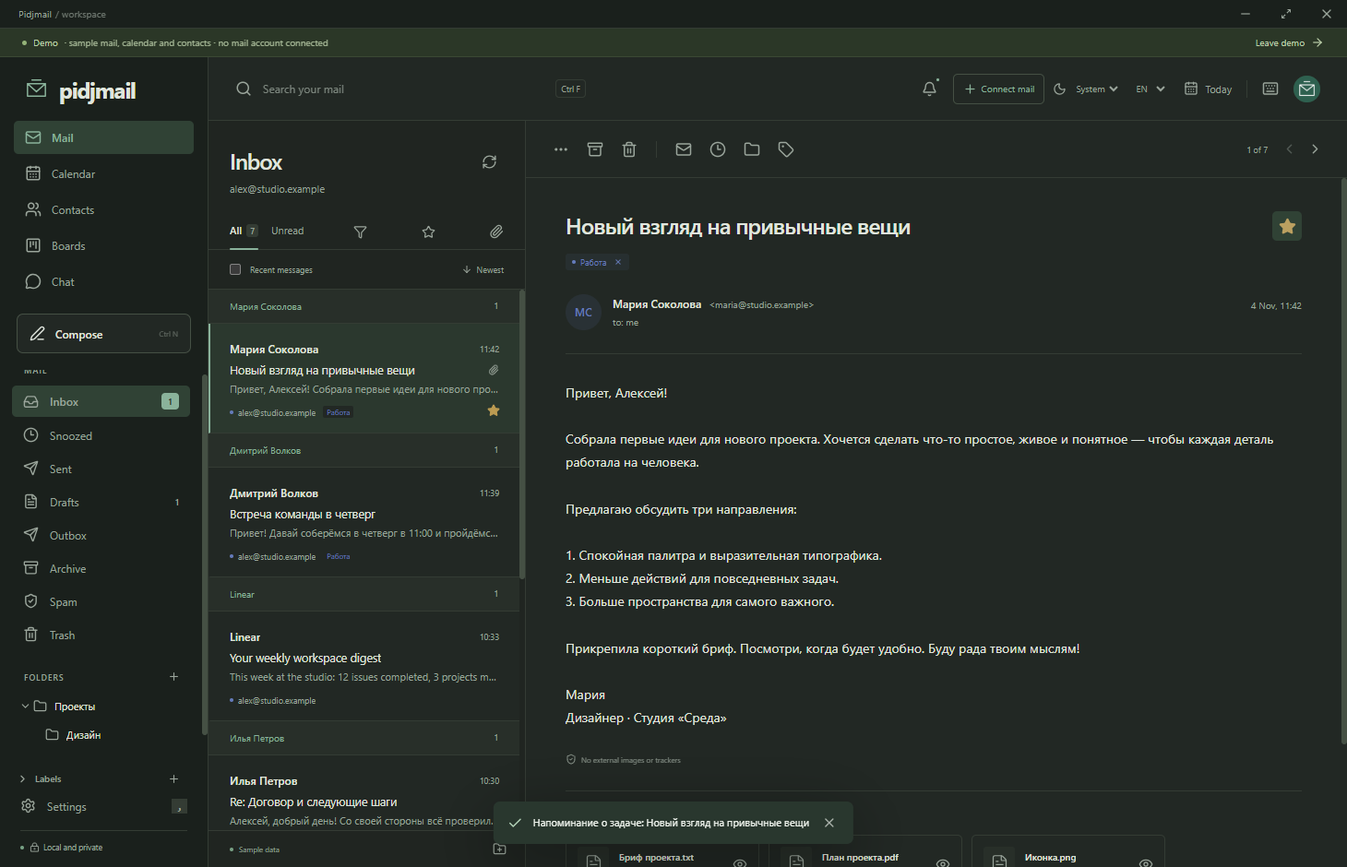
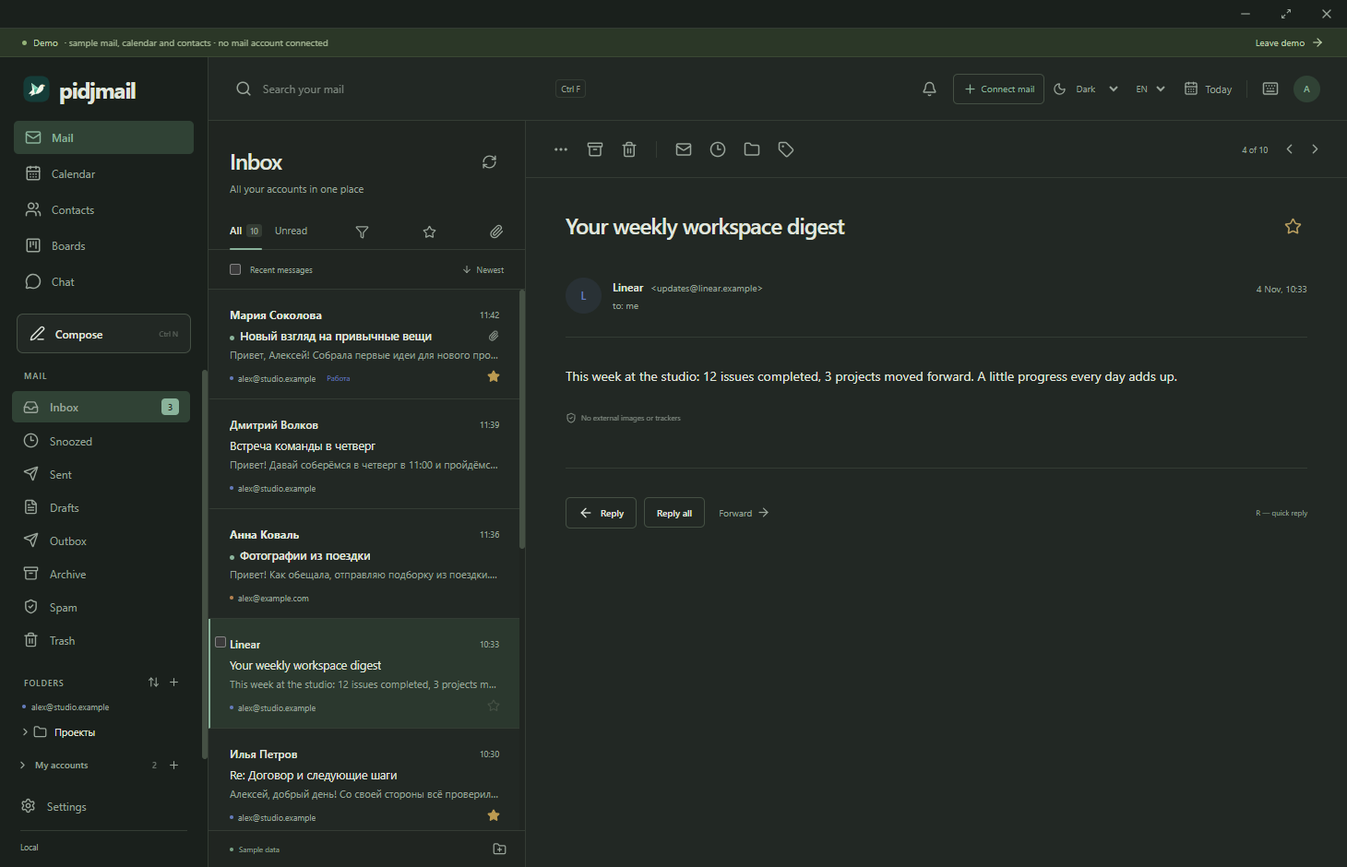
Document Pidjmail 0.2.1 connection, storage, tray and AI panels

diff --git a/PRIVACY.md b/PRIVACY.md
@@ -1,55 +1,35 @@
 # Конфиденциальность / Privacy
 
-**Дата / Date:** 4 November 2026 · **Приложение / Application:** Pidjmail 0.2.0
+4 November 2026 · Pidjmail 0.2.1
 
 ## Русский
 
-### Локальные данные
+Почта соединяется напрямую с выбранным IMAP/SMTP-провайдером по TLS или обязательному STARTTLS. У Pidjmail нет собственного сервера почты, рекламного SDK или сбора аналитики. Чтение писем безопасным текстом не загружает внешние изображения и пиксели.
 
-Pidjmail хранит параметры ящиков и интерфейса, ограниченный кэш писем, черновики и очередь, подписи, аватар, контакты, события, задачи, правила и уведомления в профиле `%APPDATA%\Pidjmail`. Пароли почты и необязательные API-ключи входят в зашифрованный профиль. Шифрование Electron safeStorage использует защиту учётной записи Windows. Резервная копия профиля также зашифрована. Это не заменяет блокировку и защиту самого компьютера.
+После проверки подключения пользователь выбирает папку писем и загрузку вложений для работы без интернета. Кэш до 100 писем на папку и скачанные вложения шифруются Electron safeStorage с защитой учётной записи Windows. Профиль, пароли, API-ключи, черновики, очередь, контакты, события, задачи, подписи, аватар и настройки также зашифрованы. Путь виден в настройках хранения. По умолчанию профиль находится в соседней с установкой папке Pidjmail Data, на том же диске. Выбор другого диска для первого ящика переносит туда профиль. В %APPDATA%/Pidjmail-location.json хранится только указатель пути. При недоступном диске нет переключения на C:. При миграции прежний зашифрованный профиль сохраняется.
 
-### Сетевые соединения
+По умолчанию входящие вложения просматриваются в памяти. «Сохранить как…» записывает файл по выбранному пути. Включённое пользователем автоматическое сохранение записывает обычные, незашифрованные файлы в выбранную папку. Зашифрованный кэш для работы без интернета — отдельная настройка. Исходящие вложения входят в зашифрованную очередь/черновик.
 
-- Почта передаётся напрямую выбранному IMAP/SMTP-провайдеру по TLS или обязательному STARTTLS. У Pidjmail нет собственного сервера для вашей почты.
-- При включённом получении почты приложение периодически соединяется с провайдером и может держать IMAP IDLE-соединение.
-- AI-помощник обращается к OpenAI или Anthropic только после запуска запроса пользователем. Передаются запрос и явно выбранный контекст письма; вложения автоматически не отправляются. Для API действуют условия выбранного сервиса.
-- При запросе подтверждения прочтения отправляется стандартный заголовок с адресом отправителя. Получатель может отказаться отвечать.
-- Внешние ссылки открываются по действию пользователя в браузере. Скачивание выпусков обслуживается GitHub; применяются его правила.
+AI API отправляет промпт и выбранный пользователем контекст только по его команде; вложения автоматически не передаются. Веб-приложение ИИ загружает официальный сайт ChatGPT/Claude в отдельной изолированной сессии без доступа к почте и native API. Вход выполняется на сайте сервиса. Его правила, cookies и сетевые запросы действуют внутри этой страницы. Cookies самого сервиса сохраняются в зашифрованном профиле; хранилище веб-страницы работает в памяти. Удаление веб-подключения очищает эту сессию. Встроенный вход может ограничиваться сервисом, предусмотрен переход в браузер.
 
-Приложение не содержит собственного сбора аналитики, рекламного SDK или облачной синхронизации календаря, контактов и досок. Текстовое чтение писем не загружает внешние изображения и пиксели отслеживания.
+Почта проверяется автоматически, в том числе через IMAP IDLE. Уведомления могут показывать тему письма или название задачи; текст и звук почты, календаря и досок настраиваются отдельно. Сворачивание сохраняет работу в трее, полный выход её прекращает. Подтверждения прочтения зависят от решения получателя. Внешние ссылки открываются по действию пользователя. Выпуски обслуживает GitHub.
 
-### Файлы и уведомления
+Обычное удаление приложения сохраняет профиль и папки писем. Отключение ящика не удаляет серверную почту и локальную папку. Для окончательного удаления закройте приложение и удалите профиль, выбранные папки и собственные резервные копии; сохранённые обычные файлы удаляются отдельно. Не переносите зашифрованный профиль между пользователями Windows.
 
-Просмотр поддерживаемых входящих вложений выполняется в памяти без отдельной записи файла. «Сохранить как…» записывает файл по выбранному пути. Выбранный аватар сохраняется в профиле; исходящие вложения входят в локальный черновик/очередь. Системные уведомления могут показывать тему письма или название задачи; их можно отключить в настройках.
-
-### Хранение и удаление
-
-Обычное удаление программы сохраняет профиль. Для окончательного удаления данных закройте приложение и удалите его профиль и собственные резервные копии. Сохранённые через «Сохранить как…» файлы удаляются отдельно. Письма на сервере провайдера управляются отдельно; действия с письмами и папками могут синхронизироваться с сервером. Не переносите зашифрованный профиль между пользователями Windows.
-
-Не прикладывайте профиль, пароли, ключи или личную переписку к публичным [обращениям](https://github.com/AdamAnomatik/Pidjmail-Releases/issues). Для уязвимостей см. [SECURITY.md](SECURITY.md).
+Не публикуйте пароли, ключи, профили и переписку в [обращениях](https://github.com/AdamAnomatik/Pidjmail-Releases/issues). Уязвимости: [SECURITY.md](SECURITY.md).
 
 ## English
 
-### Local data
+Mail connects directly to the selected provider through TLS or mandatory STARTTLS. Pidjmail has no mail relay, advertising SDK or usage analytics. Text-only mail display does not load remote images or tracking pixels.
 
-Pidjmail stores account and interface settings, a bounded mail cache, drafts and delivery queue, signatures, avatar, contacts, events, tasks, rules and notifications under `%APPDATA%\Pidjmail`. Mail passwords and optional API keys are included in the encrypted profile. Electron safeStorage uses Windows account protection; the backup is encrypted as well. This does not replace protection of the computer itself.
+After verification, choose a mail folder and whether to cache attachments offline. The bounded cache (100 messages per folder), offline attachments and application profile are encrypted using Electron safeStorage and Windows user protection. The profile includes credentials, optional API keys, drafts, queue, contacts, events, tasks, signatures, avatar and settings. Paths are shown in Data storage. The default profile is in Pidjmail Data beside the installation directory, on the same drive. Choosing a different drive for the first mailbox moves the profile too. %APPDATA%/Pidjmail-location.json holds only its path. There is no fallback to C: if a drive is unavailable. Legacy encrypted profiles are preserved during migration.
 
-### Network connections
+Incoming attachments are previewed in memory by default. Save As writes a file to the selected path. User-enabled automatic saving exports ordinary, unencrypted files to the chosen folder. Encrypted offline caching is a separate option. Outgoing attachments are included in encrypted drafts and queue.
 
-- Mail connects directly to the selected IMAP/SMTP provider using TLS or mandatory STARTTLS. Pidjmail does not operate a mail relay for your messages.
-- Automatic retrieval periodically contacts the provider and may keep an IMAP IDLE connection open.
-- The AI assistant contacts OpenAI or Anthropic only after the user starts a request. The prompt and explicitly selected mail context are transmitted; attachments are not sent automatically. The chosen service's terms apply.
-- Requesting a read receipt adds a standard header containing the sender's address. The recipient may decline to respond.
-- External links open in the browser after a user action. GitHub serves release downloads under its own policies.
+AI API requests send a prompt and user-selected context only on command; attachments are not sent automatically. AI web apps load the official ChatGPT/Claude website in an isolated session without mail or native API access. Sign-in happens on the provider page, under its terms, cookies and network requests. First-party session cookies are stored only in the encrypted profile; other web storage is in memory. Removing the web connection clears this session. A service may restrict embedded login; a browser fallback is available.
 
-The application has no built-in usage analytics, advertising SDK or cloud synchronization of calendar, contacts and boards. Text-only email display does not load remote images or tracking pixels.
+Mail updates automatically, including through IMAP IDLE. Notifications may show mail subjects or task titles. Mail, Calendar and Boards have separate text/sound settings. Minimize keeps the app running in the tray; Quit stops it. Read receipts depend on recipients. External links open on user action. GitHub hosts release downloads.
 
-### Files and notifications
+Normal uninstall preserves the profile and mail folders. Disconnecting a mailbox preserves its local folder and server mail. For permanent deletion, quit and remove the profile, chosen folders and backup copies; exported files are separate. Do not transfer encrypted profiles between Windows users.
 
-Supported incoming attachments are previewed in memory without writing a separate file. Save As writes to the selected location. An avatar is stored in the profile; outgoing attachments are part of local drafts and the delivery queue. System notifications may show email subjects or task titles and can be disabled in Settings.
-
-### Retention and deletion
-
-Normal uninstall preserves the profile. To remove local data permanently, close the application and remove the profile and your backup copies. Files explicitly saved through Save As are separate. Mail on the provider's server is managed separately; message and folder actions may synchronize to that server. Encrypted profiles should not be transferred between Windows users.
-
-Do not attach profiles, passwords, API keys or private mail to public [issues](https://github.com/AdamAnomatik/Pidjmail-Releases/issues). Follow [SECURITY.md](SECURITY.md) for vulnerabilities.
+Never publish credentials, profiles or private mail in [issues](https://github.com/AdamAnomatik/Pidjmail-Releases/issues). See [SECURITY.md](SECURITY.md).

diff --git a/README.ru.md b/README.ru.md
@@ -19,14 +19,14 @@
 - Фильтры входящей почты, группировка по отправителю, поиск Ctrl+F, восстановление из корзины.
 - Просмотр текста, изображений и PDF в памяти, отдельное **«Сохранить как…»**.
 - Локальные календарь, контакты и канбан-доски; создание события, задачи и контакта из письма.
-- Настройка звуков, напоминания, аватар и подписи ящиков.
+- Отдельные уведомления почты, календаря и досок; напоминания в трее, аватар и подписи.
 - Русский и английский интерфейс; светлая, тёмная и системная темы.
-- Необязательный помощник OpenAI / Claude через собственные API-ключ и модель, с явным выбором передачи текста.
+- ChatGPT / Claude в правой панели: веб-вход или собственные API-ключ и модель. При ограничении встроенного входа есть переход в браузер.
 - Зашифрованные локальные профили, отдельные рабочий и демонстрационный режимы.
 
 ## Скачать
 
-Последняя версия доступна в разделе **Releases**. Версия 0.2.0 — ранняя рабочая сборка.
+Последняя версия доступна в разделе **Releases**. Версия 0.2.1 — ранняя рабочая сборка.
 
 ➡ **[Скачать последнюю версию Pidjmail](https://github.com/AdamAnomatik/Pidjmail-Releases/releases/latest)**
 
@@ -45,7 +45,7 @@
 
 1. Скачайте последний `Pidjmail-Setup-x.y.z-x64.exe`.
 2. Запустите установщик и выберите папку. Установка выполняется для текущего пользователя Windows.
-3. Откройте Pidjmail через меню «Пуск».
+3. Выберите, создавать ли ярлык на рабочем столе. Откройте Pidjmail через «Пуск» или ярлык. Сворачивание оставляет его в трее; «Выход» завершает работу.
 4. Подключите ящик паролем приложения или нажмите **«Сначала посмотреть»** для демонстрации.
 
 Приложение и установщик пока **без цифровой подписи**. Инструкции подключения провайдеров доступны в настройках.
@@ -56,13 +56,11 @@
 
 ## Где хранятся данные
 
-Пользовательские данные хранятся локально:
+После проверки IMAP/SMTP выберите папку почты и загрузку с вложениями или без. Загрузка идёт в фоне. Папку можно сменить в настройках → Хранение данных. По умолчанию — просмотр и ручное сохранение; автоматическое сохранение включается отдельно с выбором папки.
 
-```text
-%APPDATA%\Pidjmail
-```
+Зашифрованный профиль по умолчанию находится в `Pidjmail Data` рядом с каталогом установки на том же диске. Выбор другого диска для первого ящика переносит туда и профиль. `%APPDATA%/Pidjmail-location.json` содержит только путь. Недоступный диск вызывает ошибку, без переключения на C:. При миграции прежний зашифрованный профиль сохраняется.
 
-Профили, пароли почты и необязательные API-ключи шифруются средствами Windows с привязкой к пользователю ОС. Почта соединяется напрямую с провайдером. AI-запросы уходят выбранному сервису только по вашей команде. Подробнее: [PRIVACY.md](PRIVACY.md).
+Профили, пароли почты и необязательные API-ключи шифруются средствами Windows с привязкой к пользователю ОС. Почта соединяется напрямую с провайдером. Запросы AI API уходят выбранному сервису по вашей команде. Веб-приложение ИИ загружает официальный сайт в изолированной сессии. Подробнее: [PRIVACY.md](PRIVACY.md).
 
 ## Текущие ограничения
 
@@ -75,10 +73,10 @@
 В PowerShell:
 
 ```powershell
-Get-FileHash .\Pidjmail-Setup-0.2.0-x64.exe -Algorithm SHA256
+Get-FileHash .\Pidjmail-Setup-0.2.1-x64.exe -Algorithm SHA256
 ```
 
-Полученное значение должно совпасть с файлом `Pidjmail-Setup-0.2.0-x64.sha256.txt`.
+Полученное значение должно совпасть с файлом `Pidjmail-Setup-0.2.1-x64.sha256.txt`.
 
 ## Сообщить об ошибке
 

diff --git a/README.en.md b/README.en.md
@@ -19,14 +19,14 @@
 - Incoming-mail filters, sender grouping, Ctrl+F search and restoration from Trash.
 - In-memory previews for text, images and PDF, with an explicit **Save As** action.
 - Local calendar, contacts and kanban boards; turn an email into an event, task or contact.
-- Sound preferences, reminders, profile pictures and account signatures.
+- Separate Mail / Calendar / Boards notifications, tray reminders, profile pictures and account signatures.
 - Russian and English interface; light, dark and system themes.
-- Optional OpenAI / Claude assistant using your own API key and model, with explicit control over sending email text.
+- OpenAI / Claude in a right-side chat panel: web app sign-in or your own API key and model. Embedded sign-in depends on the service; a browser fallback is available.
 - Encrypted local profiles, with separate real-mail and demo workspaces.
 
 ## Download
 
-The latest release is available in **Releases**. Version 0.2.0 is an early working release.
+The latest release is available in **Releases**. Version 0.2.1 is an early working release.
 
 ➡ **[Download the latest version of Pidjmail](https://github.com/AdamAnomatik/Pidjmail-Releases/releases/latest)**
 
@@ -45,7 +45,7 @@ The latest release is available in **Releases**. Version 0.2.0 is an early worki
 
 1. Download the latest `Pidjmail-Setup-x.y.z-x64.exe`.
 2. Run the installer and choose an installation folder. Installation is for the current Windows user.
-3. Open Pidjmail from the Start menu.
+3. Choose whether to create a desktop shortcut, then open Pidjmail from the Start menu or desktop. Minimizing keeps it running in the tray; Quit closes it.
 4. Connect an account using an app password, or choose **Take a look first** to explore sample data.
 
 The application and installer are currently **unsigned**. Provider-specific setup instructions are available in Settings.
@@ -56,13 +56,11 @@ Close Pidjmail and run the new installer. Automatic updating is not available ye
 
 ## Data location
 
-User data is stored locally:
+After IMAP/SMTP verification, choose a mail data folder and whether to download attachments. Downloading continues in the background. Change the folder under Settings → Data storage. Preview/manual saving is the default; automatic attachment saving uses an explicitly chosen folder.
 
-```text
-%APPDATA%\Pidjmail
-```
+The encrypted application profile defaults to `Pidjmail Data` beside the installation directory, on the same drive. Choosing another drive for the first mailbox also moves the profile. `%APPDATA%/Pidjmail-location.json` contains only the path pointer. An unavailable drive causes an error, never a silent fallback to C:. A legacy encrypted profile is preserved during migration.
 
-Profiles, mail credentials and optional API keys are encrypted using Windows user protection. Mail connects directly to your provider. Optional AI requests go to the selected provider only after your action. See [PRIVACY.md](PRIVACY.md).
+Profiles, mail credentials and optional API keys are encrypted using Windows user protection. Mail connects directly to your provider. Optional AI API requests go to the selected provider after your action. An enabled AI web app loads the official website in an isolated session. See [PRIVACY.md](PRIVACY.md).
 
 ## Current limitations
 
@@ -75,10 +73,10 @@ Real provider accounts and paid AI requests still require validation. Local TLS 
 You can verify the installer checksum in PowerShell:
 
 ```powershell
-Get-FileHash .\Pidjmail-Setup-0.2.0-x64.exe -Algorithm SHA256
+Get-FileHash .\Pidjmail-Setup-0.2.1-x64.exe -Algorithm SHA256
 ```
 
-The result must match the value published in `Pidjmail-Setup-0.2.0-x64.sha256.txt`.
+The result must match the value published in `Pidjmail-Setup-0.2.1-x64.sha256.txt`.
 
 ## Report an issue
 

diff --git a/README.md b/README.md
@@ -19,14 +19,14 @@
 - Incoming-mail filters, sender grouping, Ctrl+F search and restoration from Trash.
 - In-memory previews for text, images and PDF, with an explicit **Save As** action.
 - Local calendar, contacts and kanban boards; turn an email into an event, task or contact.
-- Sound preferences, reminders, profile pictures and account signatures.
+- Separate Mail / Calendar / Boards notifications, tray reminders, profile pictures and account signatures.
 - Russian and English interface; light, dark and system themes.
-- Optional OpenAI / Claude assistant using your own API key and model, with explicit control over sending email text.
+- OpenAI / Claude in a right-side chat panel: web app sign-in or your own API key and model. Embedded sign-in depends on the service; a browser fallback is available.
 - Encrypted local profiles, with separate real-mail and demo workspaces.
 
 ## Download
 
-The latest release is available in **Releases**. Version 0.2.0 is an early working release.
+The latest release is available in **Releases**. Version 0.2.1 is an early working release.
 
 ➡ **[Download the latest version of Pidjmail](https://github.com/AdamAnomatik/Pidjmail-Releases/releases/latest)**
 
@@ -45,7 +45,7 @@ The latest release is available in **Releases**. Version 0.2.0 is an early worki
 
 1. Download the latest `Pidjmail-Setup-x.y.z-x64.exe`.
 2. Run the installer and choose an installation folder. Installation is for the current Windows user.
-3. Open Pidjmail from the Start menu.
+3. Choose whether to create a desktop shortcut, then open Pidjmail from the Start menu or desktop. Minimizing keeps it running in the tray; Quit closes it.
 4. Connect an account using an app password, or choose **Take a look first** to explore sample data.
 
 The application and installer are currently **unsigned**. Provider-specific setup instructions are available in Settings.
@@ -56,13 +56,11 @@ Close Pidjmail and run the new installer. Automatic updating is not available ye
 
 ## Data location
 
-User data is stored locally:
+After IMAP/SMTP verification, choose a mail data folder and whether to download attachments. Downloading continues in the background. Change the folder under Settings → Data storage. Preview/manual saving is the default; automatic attachment saving uses an explicitly chosen folder.
 
-```text
-%APPDATA%\Pidjmail
-```
+The encrypted application profile defaults to `Pidjmail Data` beside the installation directory, on the same drive. Choosing another drive for the first mailbox also moves the profile. `%APPDATA%/Pidjmail-location.json` contains only the path pointer. An unavailable drive causes an error, never a silent fallback to C:. A legacy encrypted profile is preserved during migration.
 
-Profiles, mail credentials and optional API keys are encrypted using Windows user protection. Mail connects directly to your provider. Optional AI requests go to the selected provider only after your action. See [PRIVACY.md](PRIVACY.md).
+Profiles, mail credentials and optional API keys are encrypted using Windows user protection. Mail connects directly to your provider. Optional AI API requests go to the selected provider after your action. An enabled AI web app loads the official website in an isolated session. See [PRIVACY.md](PRIVACY.md).
 
 ## Current limitations
 
@@ -75,10 +73,10 @@ Real provider accounts and paid AI requests still require validation. Local TLS 
 You can verify the installer checksum in PowerShell:
 
 ```powershell
-Get-FileHash .\Pidjmail-Setup-0.2.0-x64.exe -Algorithm SHA256
+Get-FileHash .\Pidjmail-Setup-0.2.1-x64.exe -Algorithm SHA256
 ```
 
-The result must match the value published in `Pidjmail-Setup-0.2.0-x64.sha256.txt`.
+The result must match the value published in `Pidjmail-Setup-0.2.1-x64.sha256.txt`.
 
 ## Report an issue
 

diff --git a/CHANGELOG.md b/CHANGELOG.md
@@ -1,5 +1,16 @@
 # История изменений / Changelog
 
+## 0.2.1 · 2026-11-04
+
+- Быстрое двухфазное подключение с выбором папки и вложений; фоновая загрузка с прогрессом и временем.
+- Настройки темы/языка работают во время синхронизации. Переименование/перенос папок и порядок разделов.
+- Просмотр/Save As или автоматическое сохранение вложений, независимые уведомления почты/календаря/досок, трей.
+- Правая панель ChatGPT/Claude: API или изолированное веб-приложение; вход зависит от сервиса, есть переход в браузер.
+- Новый значок, компактные настройки, About по образцу, ссылка на сайт и выбор ярлыка в установщике.
+
+Two-phase connection, chosen data folders, progressive background sync, responsive themes/language, folder editing, attachment modes, category notifications and tray. ChatGPT/Claude right-side API/web panels, refreshed icon/settings/About, installer website and desktop shortcut choice.
+
+
 ## [0.2.0] — 2026-11-04
 
 ### Русский
